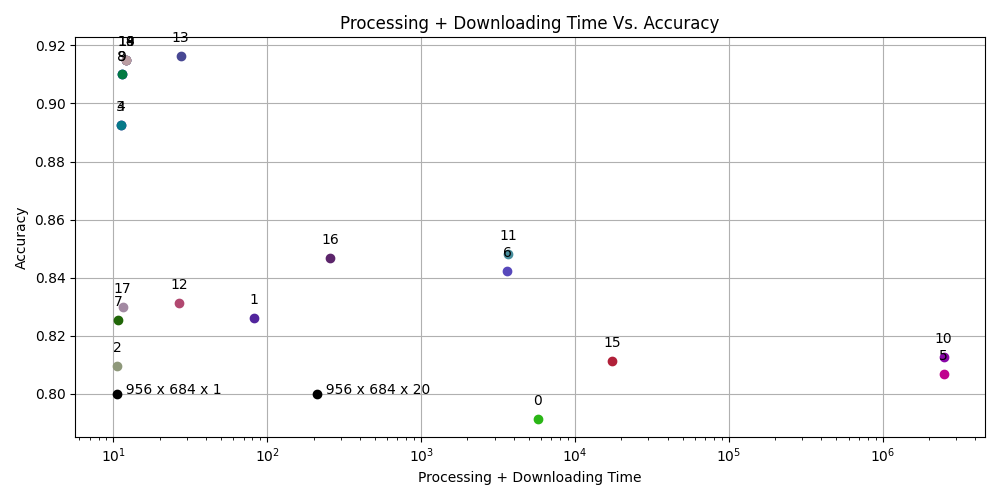
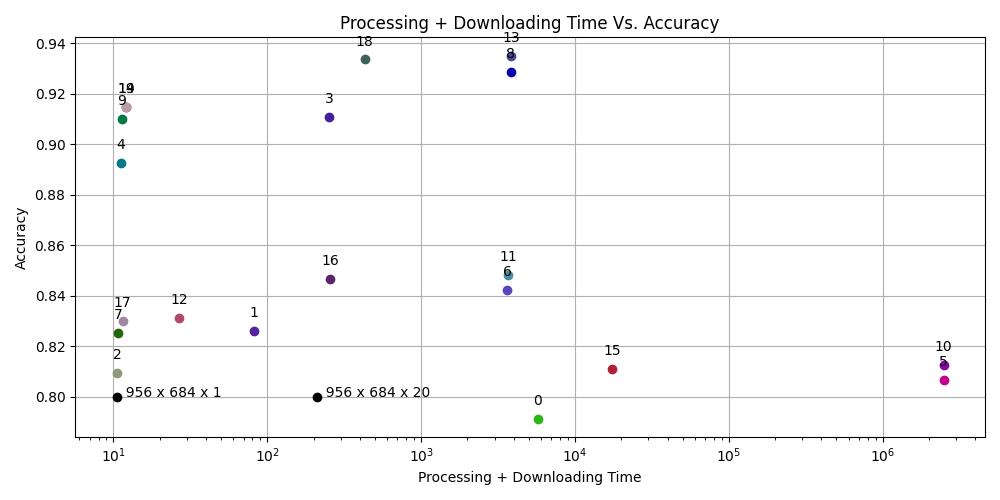
almost finish

diff --git a/python/designSpaceExploration/pipelines.py b/python/designSpaceExploration/pipelines.py
@@ -187,25 +187,25 @@ for i in range(0, len(cem_ace_sw_pipelines)):
 GRX = ["x", "x", "x", "x", "x", "x", "x", "x", "x", "GRX_sw"]
 GRX_spectral = ["spectral_binning", "x", "x", "x", "x", "x", "x", "x", "x", "GRX_sw"]
 GRX_spectral_pca_hw = ["spectral_binning", "x", "x", "x", "x", "x", "x", "PCA_hw", "x", "GRX_sw"]
-GRX_spectral_dete_georeg = ["spectral_binning", "x", "x", "x", "mean_threshold_detection", "nearest_neighbour_correction", "x", "PCA_hw", "geometric_registration", "GRX_sw"]
+GRX_spectral_dete_georeg = ["spectral_binning", "x", "x", "x", "mean_threshold_detection", "nearest_neighbour_correction", "x", "x", "geometric_registration", "GRX_sw"]
 GRX_spectral_pca_hw_dete_georeg = ["spectral_binning", "x", "x", "x", "mean_threshold_detection", "nearest_neighbour_correction", "x", "PCA_hw", "geometric_registration", "GRX_sw"]
 
 LRX = ["x", "x", "x", "x", "x", "x", "x", "x", "x", "LRX_sw"]
 LRX_spectral = ["spectral_binning", "x", "x", "x", "x", "x", "x", "x", "x", "LRX_sw"]
 LRX_spectral_pca_hw = ["spectral_binning", "x", "x", "x", "x", "x", "x", "PCA_hw", "x", "LRX_sw"]
-LRX_spectral_dete_georeg = ["spectral_binning", "x", "x", "x", "mean_threshold_detection", "nearest_neighbour_correction", "x", "PCA_hw", "geometric_registration", "LRX_sw"]
+LRX_spectral_dete_georeg = ["spectral_binning", "x", "x", "x", "mean_threshold_detection", "nearest_neighbour_correction", "x", "x", "geometric_registration", "LRX_sw"]
 LRX_spectral_pca_hw_dete_georeg = ["spectral_binning", "x", "x", "x", "mean_threshold_detection", "nearest_neighbour_correction", "x", "PCA_hw", "geometric_registration", "LRX_sw"]
 
 CRD = ["x", "x", "x", "x", "x", "x", "x", "x", "x", "CRD_sw"]
 CRD_spectral = ["spectral_binning", "x", "x", "x", "x", "x", "x", "x", "x", "CRD_sw"]
 CRD_spectral_pca_hw = ["spectral_binning", "x", "x", "x", "x", "x", "x", "PCA_hw", "x", "CRD_sw"]
-CRD_spectral_dete_georeg = ["spectral_binning", "x", "x", "x", "mean_threshold_detection", "nearest_neighbour_correction", "x", "PCA_hw", "geometric_registration", "CRD_sw"]
+CRD_spectral_dete_georeg = ["spectral_binning", "x", "x", "x", "mean_threshold_detection", "nearest_neighbour_correction", "x", "x", "geometric_registration", "CRD_sw"]
 CRD_spectral_pca_hw_dete_georeg = ["spectral_binning", "x", "x", "x", "mean_threshold_detection", "nearest_neighbour_correction", "x", "PCA_hw", "geometric_registration", "FrFT_RX_sw"]
 
 frft_rx = ["x", "x", "x", "x", "x", "x", "x", "x", "x", "FrFT_RX_sw"]
 frft_rx_spectral = ["spectral_binning", "x", "x", "x", "x", "x", "x", "x", "x", "FrFT_RX_sw"]
 frft_rx_spectral_pca_hw = ["spectral_binning", "x", "x", "x", "x", "x", "x", "PCA_hw", "x", "FrFT_RX_sw"]
-frft_rx_spectral_dete_georeg = ["spectral_binning", "x", "x", "x", "mean_threshold_detection", "nearest_neighbour_correction", "x", "PCA_hw", "geometric_registration", "FrFT_RX_sw"]
+frft_rx_spectral_dete_georeg = ["spectral_binning", "x", "x", "x", "mean_threshold_detection", "nearest_neighbour_correction", "x", "x", "geometric_registration", "FrFT_RX_sw"]
 frft_rx_spectral_pca_hw_dete_georeg = ["spectral_binning", "x", "x", "x", "mean_threshold_detection", "nearest_neighbour_correction", "x", "PCA_hw", "geometric_registration", "FrFT_RX_sw"]
 
 anomaly_sw_pipelines = [GRX, GRX_spectral, GRX_spectral_pca_hw, GRX_spectral_dete_georeg, GRX_spectral_pca_hw_dete_georeg, LRX, LRX_spectral, LRX_spectral_pca_hw, LRX_spectral_dete_georeg, LRX_spectral_pca_hw_dete_georeg, CRD, CRD_spectral, CRD_spectral_pca_hw, CRD_spectral_dete_georeg, CRD_spectral_pca_hw_dete_georeg, frft_rx, frft_rx_spectral, frft_rx_spectral_pca_hw, frft_rx_spectral_dete_georeg, frft_rx_spectral_pca_hw_dete_georeg]

diff --git a/python/designSpaceExploration/pipelinePlot.py b/python/designSpaceExploration/pipelinePlot.py
@@ -131,7 +131,7 @@ def make_pipeline_plot(pipeline_vec):
 
 		#plot pipeline names:
 		i_and_name = str(i) + ": " + names[i]
-		#plt.text(1e4, 0.86-i*0.0051, i_and_name, color=RGB(R,G,B))
+		#plt.text(1e2, 0.86-i*0.0081, i_and_name, color=RGB(R,G,B))
 
 	best_case = frames*framesamples*1*16*download_rate
 	bands_10 = frames*framesamples*10*16*download_rate
@@ -158,7 +158,7 @@ def make_pipeline_plot(pipeline_vec):
 	#plt.xlim(1e1, 2e1)
 	#plt.ylim(0.5, 1)
 	plt.xscale("log")
-	plt.savefig("plot_low_cost_total_processing_compression.png")
+	plt.savefig("plot_low_cost_total_processing_classification.png")
 	plt.show()
 	
 
@@ -182,24 +182,32 @@ def make_pipeline_plot(pipeline_vec):
 
 		#plot pipeline names:
 		i_and_name = str(i) + ": " + names[i]
-		#plt.text(1e4, 1-i*0.04, i_and_name, color=RGB(R,G,B))
+		#plt.text(1e2, 1-i*0.04, i_and_name, color=RGB(R,G,B))
 
 	plt.grid()
-	title_name = 'Cost Vs. MVU (Acc: ' + str(svu_acc_weight) + ' + Size: ' + str(svu_size_weight) + ')'
+	title_name = 'Cost Vs. MAU (Acc: ' + str(svu_acc_weight) + ' + Size: ' + str(svu_size_weight) + ')'
 	plt.title(title_name)
 	plt.xlabel('Cost')
-	plt.ylabel('MVU')
+	plt.ylabel('MAU')
 	#plt.xlim(1e-1, 1e6)
 	#plt.ylim(0.5, 1)
 	plt.xscale("log")
-	plt.savefig("plot_low_cost_mvu_compression.png")
+	#plt.savefig("plot_low_cost_MAU_compression.png")
+	plt.savefig("plot_low_cost_MAU_classification.png")
+	#plt.savefig("plot_low_cost_MAU_hw_processing.png")
+	#plt.savefig("plot_low_cost_MAU_target_sw.png")
+	#plt.savefig("plot_low_cost_MAU_anomaly_sw.png")
 	plt.show()
 	
+#make_pipeline_plot(compression_pipelines)
+make_pipeline_plot(classification_pipelines)
+#make_pipeline_plot(targetAnomalyHW_pipelines)
+#make_pipeline_plot(target_sw_pipelines)
+#make_pipeline_plot(anomaly_sw_pipelines)
 
-
-
-	"""
+	
 	##### Plotting SVU graf #####
+"""
 	svu_graph_size_x = [row[0] for row in svu_graph_size]
 	svu_graph_size_y = [row[1] for row in svu_graph_size]
 	plt.figure(4, figsize=(7,4), tight_layout=True)
@@ -215,19 +223,16 @@ def make_pipeline_plot(pipeline_vec):
 	plt.xscale("linear")
 	###plt.savefiganomalyacc.png")
 	plt.show()
-	"""
-
 	
 
-"""
 compression_pipelines
 classification_pipelines
 targetAnomalyHW_pipelines
 target_sw_pipelines
-anomaly_sw_pipelines
+anomaly_sw_pipelines	
+
 """
-make_pipeline_plot(compression_pipelines)
-#make_pipeline_plot(classification_pipelines)
-#make_pipeline_plot(targetAnomalyHW_pipelines)
-#make_pipeline_plot(target_sw_pipelines)
-#make_pipeline_plot(anomaly_sw_pipelines)
+
+
+
+

diff --git a/python/designSpaceExploration/processingGroups.py b/python/designSpaceExploration/processingGroups.py
@@ -96,7 +96,7 @@ def g22_algorithm(algorithm, frames, framesamples, bands, accuracy, gLast):
     
     if (algorithm == "radiometric_calibration"):
         new_frames, new_frame_samples, new_bands = DOS_radiometricCalibration(frames, framesamples, bands)
-        if(gLast == "SAM_sw" or gLast == "CEM_sw" or gLast == "ACE_sw" or gLast == "SAM_hw" or gLast == "CEM_hw" or gLast == "ACE_hw" or gLast == "ASMF_hw"):
+        if(gLast == "SAM_sw" or gLast == "CEM_sw" or gLast == "ACE_sw" or gLast == "SAM_hw" or gLast == "CEM_hw" or gLast == "ACE_hw" or gLast == "ASMF_hw" or gLast == "SVM"):
             new_accuracy = 1.05
         elif(gLast == "GRX_sw"): # usikker på om denne er i pipelinen
             new_accuracy = 1.02
@@ -181,7 +181,7 @@ def g32_algorithm(algorithm, frames, framesamples, bands, accuracy, gLast):
     
     if (algorithm == "smile_and_keystone"):
         new_frames, new_frame_samples, new_bands = DOS_smile_and_keystone(frames, framesamples, bands)
-        if(gLast == "SAM_sw" or gLast == "CEM_sw" or gLast == "ACE_sw" or gLast == "SAM_hw" or gLast == "CEM_hw" or gLast == "ACE_hw" or gLast == "ASMF_hw"):
+        if(gLast == "SAM_sw" or gLast == "CEM_sw" or gLast == "ACE_sw" or gLast == "SAM_hw" or gLast == "CEM_hw" or gLast == "ACE_hw" or gLast == "ASMF_hw" or gLast == "SVM"):
             new_accuracy = 1.05
         else:
             new_accuracy = accuracy

diff --git a/python/designSpaceExploration/data_inputs.py b/python/designSpaceExploration/data_inputs.py
@@ -9,7 +9,8 @@ freq_fast_mpd = 1/200000000
 freq_grx = 1/2.8e9
 freq_nmf = 1/3.6e9
 download_rate = dr1
-freq = freq_hypso1
+
+freq = freq_hypso1 #1/4.7e9 #freq_hypso1
 
 frames = 956#1#100#956#512#100#80#64#100#956#1000#956#614#350#956
 framesamples = 684#1600#245#100#684#512#300#100#64#100#684#245#684#512#350#684
